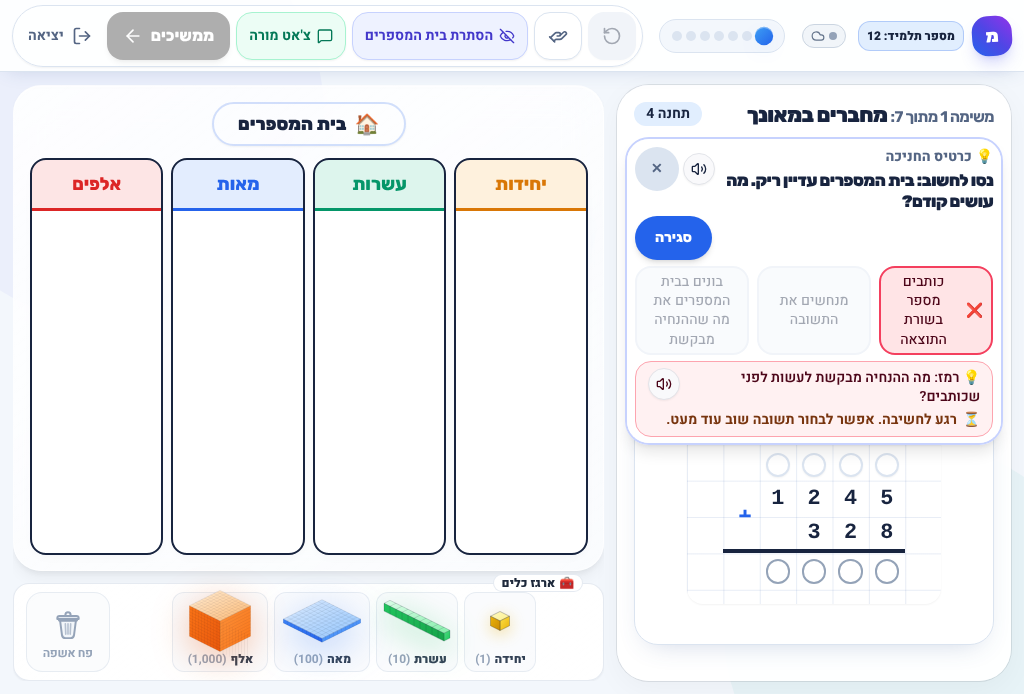
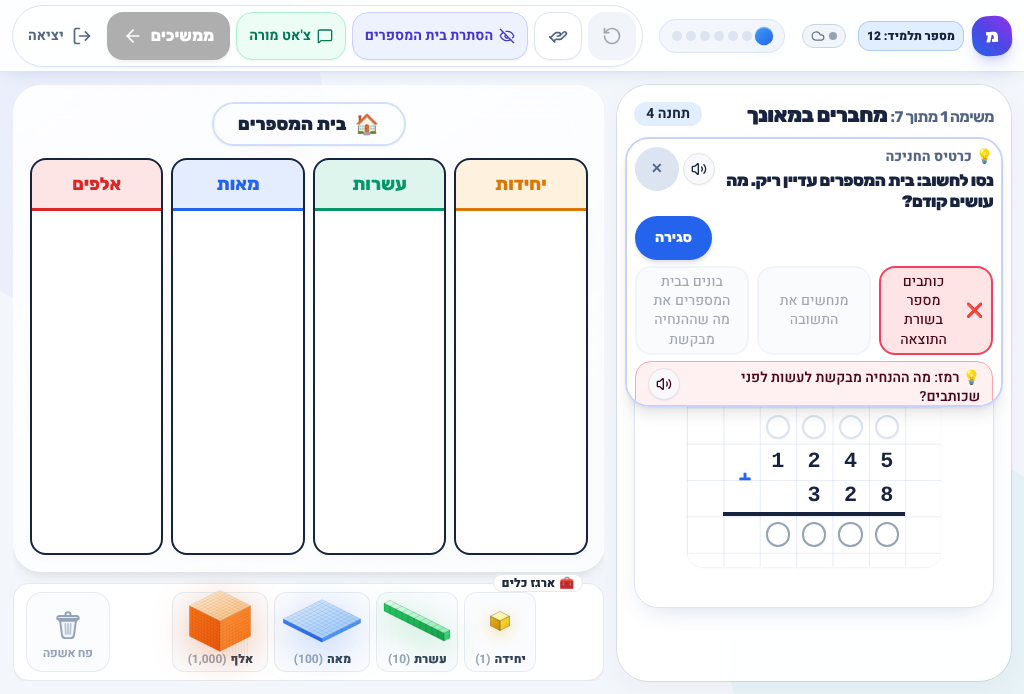
Drawer screenshots re-shot (RO1); the m7 card check waits for the settled card, not the hourglass's ✕
Claude-Session: https://claude.ai/code/session_012KWztw4N2QUYweLbi8JDnF

Changed region(s): [[0.5938, 0.5749, 1.0, 0.8473]]

diff --git a/react-ts-version/tests/ux-audit/student-journey.spec.ts b/react-ts-version/tests/ux-audit/student-journey.spec.ts
@@ -158,6 +158,11 @@ function given2730Steps(isASD: boolean): Step[] {
     await ws(cc.page, 'st.removeBlockClick("tens");');
     if (!undoLeadsBack) await ws(cc.page, SET, { undoStack: [] });
     await ws(cc.page, 'st.openSocraticCard("hesitation_45s");');
+    // The card has settled (not the hourglass, whose ✕ is an enabled button too).
+    await cc.page.waitForFunction(() => {
+      const st = (window as unknown as { __wsStore: { getState: () => { socraticPending?: boolean; aiSocraticHint?: unknown } } }).__wsStore.getState();
+      return !st.socraticPending && Boolean(st.aiSocraticHint);
+    }, undefined, { timeout: 12_000 });
     await cc.page.getByTestId('socratic-card').locator('button:not([disabled])').first().waitFor({ state: 'visible', timeout: 12_000 });
   };
   const expectCard = async (cc: AuditContext, kind: string) => {
